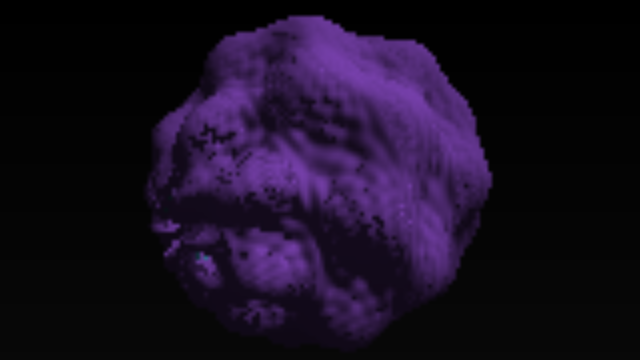
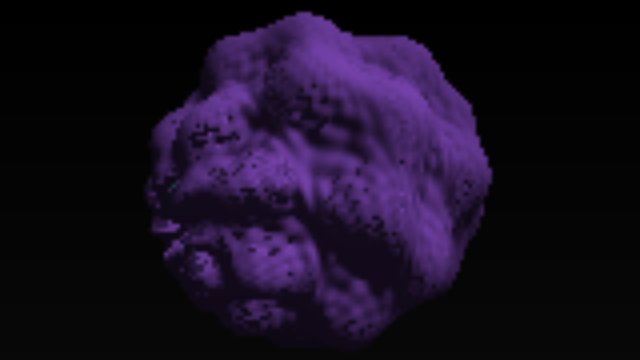
fix: fractal select screen for 19 fractals with new previews

diff --git a/src/components/menu/FractalSelectScreen.vue b/src/components/menu/FractalSelectScreen.vue
@@ -1,4 +1,5 @@
 <script setup lang="ts">
+import { ref } from 'vue';
 import { useAppState } from '../../stores/appState';
 import { FRACTAL_CONFIGS, type FractalType, useFractalParams } from '../../stores/fractalParams';
 
@@ -10,6 +11,8 @@ const fractalEntries = Object.entries(FRACTAL_CONFIGS) as [
   (typeof FRACTAL_CONFIGS)[FractalType],
 ][];
 
+const imgErrors = ref(new Set<string>());
+
 function selectFractal(type: FractalType): void {
   fractal.setFractalType(type);
   appState.startGame();
@@ -18,45 +21,59 @@ function selectFractal(type: FractalType): void {
 function onBack(): void {
   appState.backToTitle();
 }
+
+function onImgError(key: string): void {
+  imgErrors.value.add(key);
+}
 </script>
 
 <template>
-  <div class="fixed inset-0 z-20 flex flex-col items-center justify-center backdrop-blur-sm">
+  <div class="fixed inset-0 z-20 flex flex-col items-center backdrop-blur-sm">
     <div class="absolute inset-0 bg-black/70" />
 
-    <div class="relative z-10 flex w-full max-w-4xl flex-col items-center gap-6 p-8">
+    <div class="relative z-10 flex h-full w-full max-w-5xl flex-col items-center gap-4 p-6">
       <h2
-        class="text-3xl font-bold tracking-[0.15em] text-white/90"
+        class="shrink-0 text-3xl font-bold tracking-[0.15em] text-white/90"
         style="text-shadow: 0 0 20px rgba(124, 58, 237, 0.4)"
       >
         SELECT FRACTAL
       </h2>
 
-      <div class="grid w-full grid-cols-3 gap-3">
-        <button
-          v-for="[key, cfg] in fractalEntries"
-          :key="key"
-          class="group flex cursor-pointer flex-col overflow-hidden border border-white/10 bg-white/5 transition-all duration-200 hover:border-accent-bright/40 hover:bg-accent/10"
-          @click="selectFractal(key)"
-        >
-          <div class="relative aspect-video w-full overflow-hidden bg-surface-dim">
-            <img
-              :src="`previews/${key}.png`"
-              :alt="cfg.label"
-              class="h-full w-full object-cover opacity-80 transition-opacity group-hover:opacity-100"
-              loading="lazy"
-            />
-          </div>
-          <div
-            class="px-3 py-2 text-center text-xs font-medium tracking-wider text-white/70 uppercase group-hover:text-white"
+      <div class="min-h-0 w-full flex-1 overflow-y-auto">
+        <div class="grid w-full grid-cols-4 gap-2.5">
+          <button
+            v-for="[key, cfg] in fractalEntries"
+            :key="key"
+            class="group flex cursor-pointer flex-col overflow-hidden border border-white/10 bg-white/5 transition-all duration-200 hover:border-accent-bright/40 hover:bg-accent/10"
+            @click="selectFractal(key)"
           >
-            {{ cfg.label }}
-          </div>
-        </button>
+            <div class="relative aspect-video w-full overflow-hidden bg-surface-dim">
+              <img
+                v-if="!imgErrors.has(key)"
+                :src="`previews/${key}.png`"
+                :alt="cfg.label"
+                class="h-full w-full object-cover opacity-80 transition-opacity group-hover:opacity-100"
+                loading="lazy"
+                @error="onImgError(key)"
+              />
+              <div
+                v-else
+                class="flex h-full items-center justify-center text-lg font-bold text-white/10"
+              >
+                ?
+              </div>
+            </div>
+            <div
+              class="px-2 py-1.5 text-center text-[10px] font-medium tracking-wider text-white/70 uppercase group-hover:text-white"
+            >
+              {{ cfg.label }}
+            </div>
+          </button>
+        </div>
       </div>
 
       <button
-        class="cursor-pointer border border-white/10 bg-white/5 px-6 py-2 text-xs font-medium tracking-wider text-white/90 uppercase transition-all hover:border-accent-bright/40 hover:bg-accent/20"
+        class="shrink-0 cursor-pointer border border-white/10 bg-white/5 px-6 py-2 text-xs font-medium tracking-wider text-white/90 uppercase transition-all hover:border-accent-bright/40 hover:bg-accent/20"
         @click="onBack"
       >
         Back

diff --git a/scripts/generate-previews.ts b/scripts/generate-previews.ts
@@ -74,7 +74,40 @@ const FRACTALS = [
   },
   {
     type: 'juliabulb',
-    power: 1,
+    power: 2,
+    iter: 16,
+    bail: 2,
+    x: 1.5,
+    y: 0.8,
+    z: 1.5,
+    yaw: -2.35,
+    pitch: -0.35,
+  },
+  {
+    type: 'octahedron',
+    power: 0,
+    iter: 8,
+    bail: 100,
+    x: 3.0,
+    y: 2.0,
+    z: 3.0,
+    yaw: -2.35,
+    pitch: -0.35,
+  },
+  {
+    type: 'cantordust',
+    power: 0,
+    iter: 4,
+    bail: 100,
+    x: 1.8,
+    y: 1.2,
+    z: 1.8,
+    yaw: -2.35,
+    pitch: -0.4,
+  },
+  {
+    type: 'burningship',
+    power: 8,
     iter: 20,
     bail: 2,
     x: 1.5,
@@ -83,6 +116,73 @@ const FRACTALS = [
     yaw: -2.35,
     pitch: -0.35,
   },
+  {
+    type: 'tricorn',
+    power: 8,
+    iter: 20,
+    bail: 2,
+    x: 1.5,
+    y: 0.8,
+    z: 1.5,
+    yaw: -2.35,
+    pitch: -0.35,
+  },
+  {
+    type: 'cospower2',
+    power: 0,
+    iter: 20,
+    bail: 2,
+    x: 1.5,
+    y: 0.8,
+    z: 1.5,
+    yaw: -2.35,
+    pitch: -0.35,
+  },
+  {
+    type: 'kaleidobox',
+    power: -1.5,
+    iter: 15,
+    bail: 100,
+    x: 2.0,
+    y: 1.0,
+    z: 2.0,
+    yaw: -2.35,
+    pitch: -0.3,
+  },
+  {
+    type: 'spudsville',
+    power: 4,
+    iter: 16,
+    bail: 4,
+    x: 1.5,
+    y: 0.8,
+    z: 1.5,
+    yaw: -2.35,
+    pitch: -0.35,
+  },
+  {
+    type: 'bristorbrot',
+    power: 0,
+    iter: 20,
+    bail: 2,
+    x: 1.5,
+    y: 0.8,
+    z: 1.5,
+    yaw: -2.35,
+    pitch: -0.35,
+  },
+  {
+    type: 'xenodreambuie',
+    power: 8,
+    iter: 20,
+    bail: 2,
+    x: 1.5,
+    y: 0.8,
+    z: 1.5,
+    yaw: -2.35,
+    pitch: -0.35,
+  },
+  { type: 'gyroid', power: 5, iter: 2, bail: 100, x: 0, y: 0, z: 1.5, yaw: -1.57, pitch: 0 },
 ];
 
 const WIDTH = 640;
